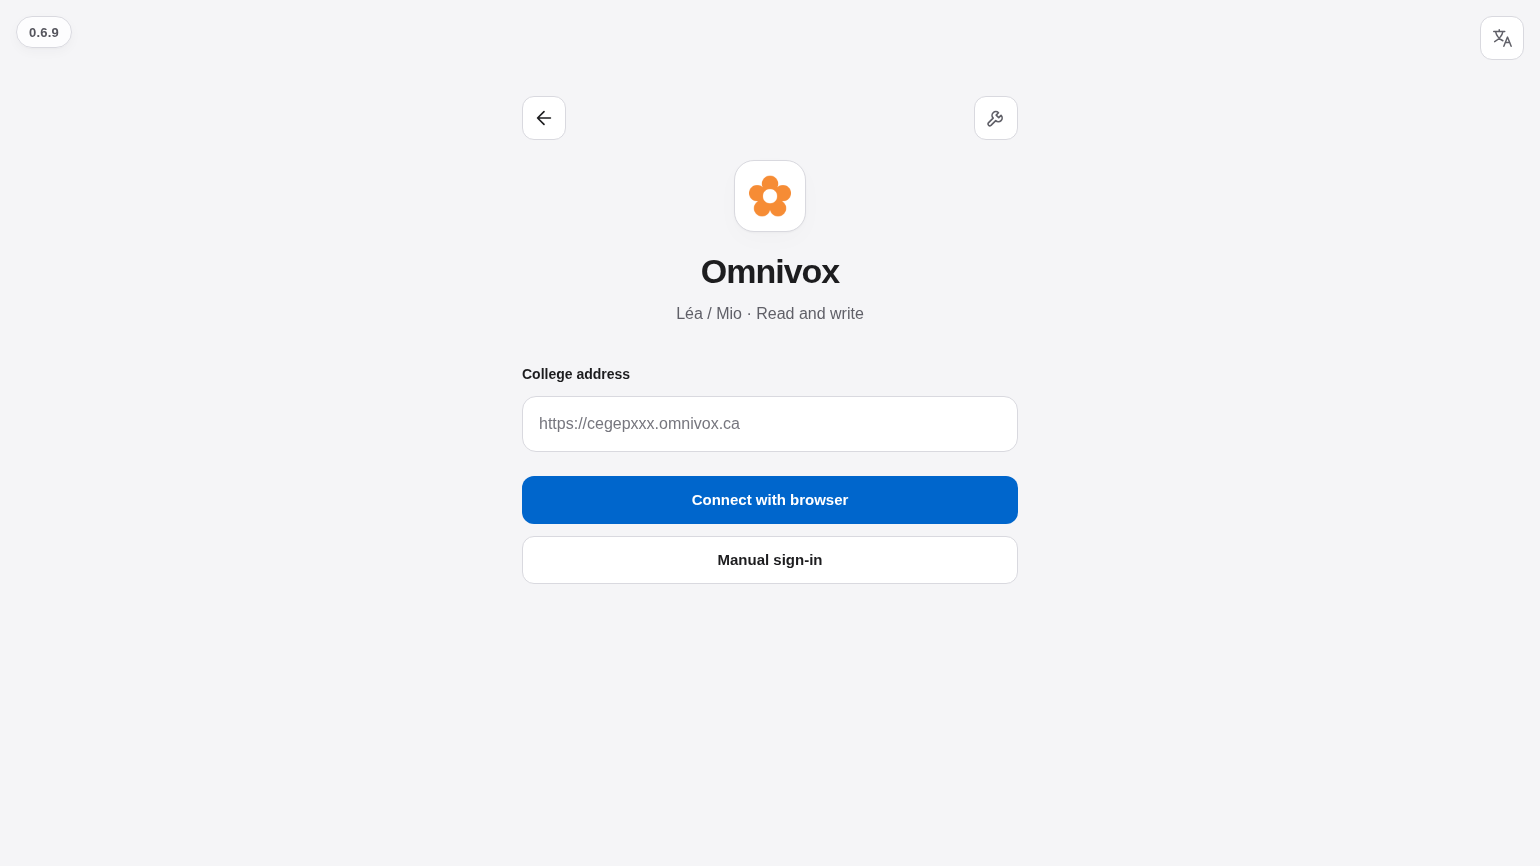
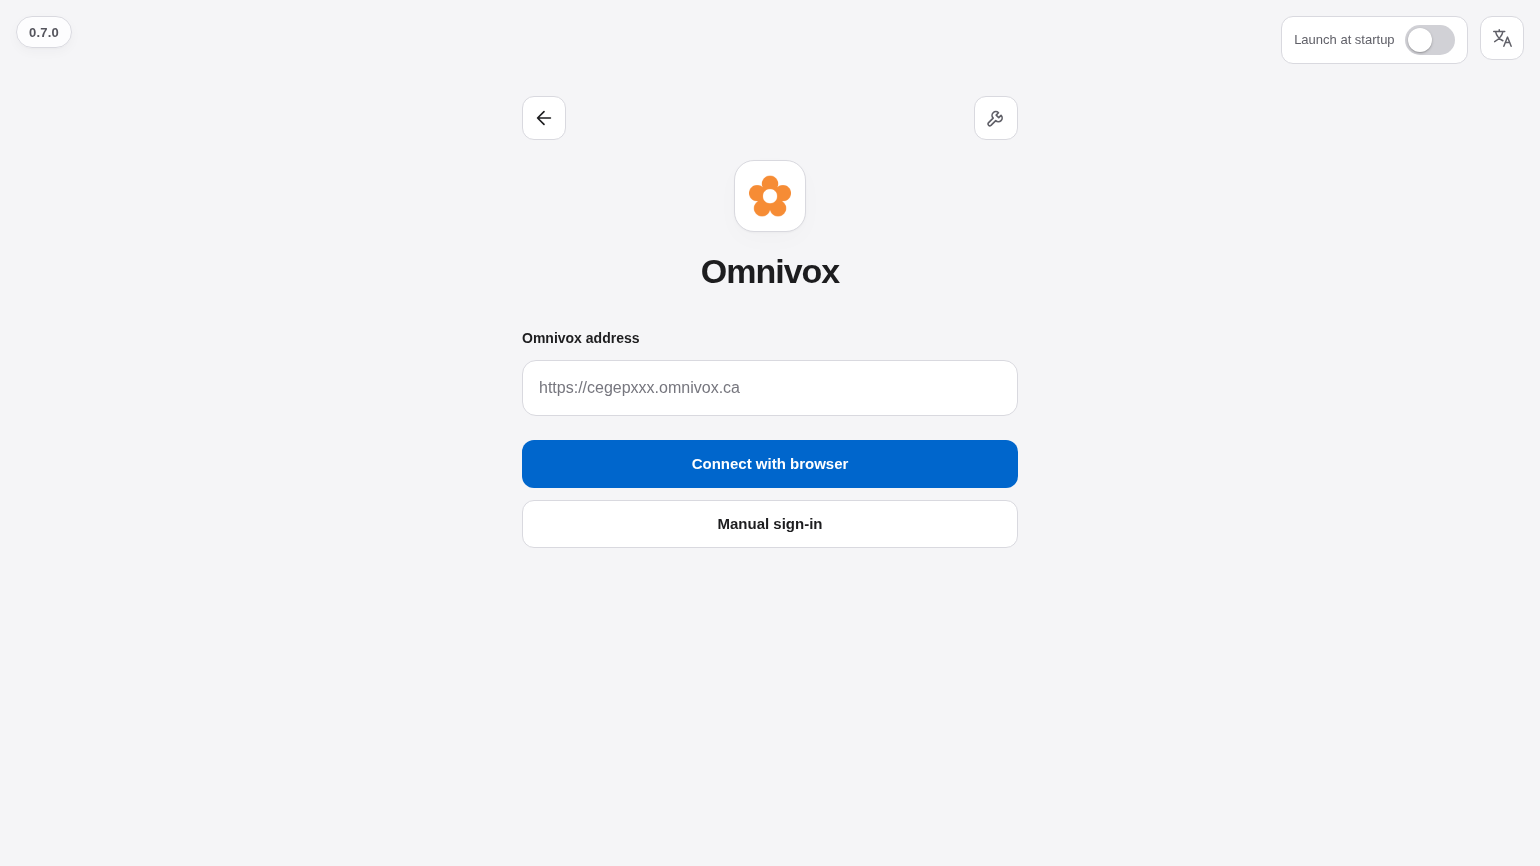
docs: refresh README screenshots and setup guide

Changed region(s): [[0.3117, 0.3741, 0.6857, 0.6547], [0.8416, 0.0312, 0.9662, 0.0624], [0.4364, 0.343, 0.561, 0.3741]]

diff --git a/tools/test_readme.py b/tools/test_readme.py
@@ -15,7 +15,7 @@ class ReadmeTests(unittest.TestCase):
         self.assertNotIn("experimental", README.lower())
         self.assertIn("tools/GUIDE.md", README)
         self.assertNotRegex(README, r"https?://(www\.)?(x|twitter)\.com")
-        for image in ("home.png", "moodle.png", "link.png", "omnivox.png"):
+        for image in ("home.png", "moodle.png", "profile.png", "link.png", "assistant.png", "omnivox.png"):
             path = ROOT / "tools" / "screens" / image
             self.assertTrue(path.is_file(), image)
             self.assertGreater(path.stat().st_size, 1000)
@@ -23,6 +23,7 @@ class ReadmeTests(unittest.TestCase):
         self.assertTrue(re.search(r"Connect with browser", README))
         self.assertNotIn("Mail transfer", README)
         self.assertNotIn("SPEC.md", README)
+        self.assertIn("0.7.0", (ROOT / "tools" / "capture-readme.mjs").read_text(encoding="utf-8"))
 
 
 if __name__ == "__main__":

diff --git a/README.md b/README.md
@@ -26,11 +26,11 @@ The installer adds student-mcp to the application menu. Windows or macOS may war
 
 Launch it from the Start menu, Applications, or your app launcher. A local page opens. Closing the tab leaves a tray icon; quit from there when you are done.
 
-<p align="center"><img src="tools/screens/home.png" width="100%" alt="student-mcp home: school search, Moodle, Omnivox, Brightspace and Canvas tiles branching to the AI link, then Claude, ChatGPT and Gemini" /></p>
+<p align="center"><img src="tools/screens/home.png" width="100%" alt="student-mcp 0.7.0 home screen with school search, four learning platforms, link settings and assistant setup" /></p>
 
 ## 2. Connect your school
 
-Click **Moodle**, **Omnivox**, **Brightspace** or **Canvas** — or type your cégep or university in the search field, which opens the right service with the address already filled in. Then **Connect with browser**. Sign in on the school site, including MFA if asked. Only a token or a private browser profile is saved — not your password. Canvas uses that session cookie; it does not ask for a personal access token.
+Click **Moodle**, **Omnivox**, **Brightspace** or **Canvas** — or type your school in the search field, which opens the right service with the address already filled in. Then **Connect with browser**. Sign in on the school site, including MFA if asked. Only a token or a private browser profile is saved — not your password. Canvas uses that session cookie; it does not ask for a personal access token.
 
 If Chrome, Edge or Brave is already installed, that browser is used. A download is offered only if none is found, and only after you agree.
 
@@ -38,21 +38,25 @@ If Chrome, Edge or Brave is already installed, that browser is used. A download 
 
 When the page says you are connected, go back to the home screen.
 
-Use the pencil on a connected account to name its profile, such as **Léa** or **Alex**. Your assistant can then find the right platform and account when you ask “What are Léa's deadlines?” If names are ambiguous, it should ask you to clarify.
+Use the pencil on a connected account to give it a name, such as **Léa** or **Alex**. Your assistant can use that label to select the right platform and account when you ask “What are Léa’s deadlines?” Names are labels you choose, not verified identities; if one is ambiguous, the assistant should ask you to clarify.
+
+<p align="center"><img src="tools/screens/profile.png" width="100%" alt="Connected Moodle account named Léa, with its school address and account controls" /></p>
 
 <p align="center"><img src="tools/screens/omnivox.png" width="100%" alt="Omnivox sign-in with Connect with browser" /></p>
 
 ## 3. Copy your AI link
 
-Your link appears under your school. Press the copy button. Keep this computer awake and online. Do not put the link in a screenshot or a chat. Open the card to choose between the local and public link.
+Your link appears under your school. Press the copy button. Keep this computer awake and online. Do not share your real link: anyone who has it can access enabled tools. Open the card to choose between **On this computer** and **From the web**.
 
-<p align="center"><img src="tools/screens/link.png" width="100%" alt="Local and public link cards with copy buttons. Example URLs only, not a real token." /></p>
+<p align="center"><img src="tools/screens/link.png" width="100%" alt="Local and public link cards with copy buttons; URLs are fictitious examples" /></p>
 
 ## 4. Add the link to your assistant
 
 Paste the **complete** `https://…/mcp/…` link into the assistant’s MCP connector settings, not into a chat message.
 
-Click **Connect an assistant** under **Your link**, then choose **Web** or **On this computer**. **Web** has three-step guides for **Grok**, **Claude**, **ChatGPT** and **Gemini**, with illustrative interface renders and a copy button where you need the public link. **On this computer** detects supported local apps: choose an app, then **Confirm setup**. No terminal or public link is needed. Automatic setup supports Claude Desktop, Claude Code, Codex / ChatGPT Desktop, Gemini CLI, OpenCode, Cursor, Grok Build, Oh My Pi, GitHub Copilot / VS Code, Windsurf, Pi, Qwen Code, Kiro, Amp, Crush and Devin CLI. Other settings and MCP servers are preserved and an existing configuration is backed up first. Detection checks known locations, not every app on the disk; **Scan again** refreshes the list.
+Click **Set up an assistant** under **Your link**, then choose **Web** or **On this computer**. **Web** has three-step guides for **Grok**, **Claude**, **ChatGPT** and **Gemini**, with illustrative interface renders and a copy button where you need the public link. **On this computer** shows supported local apps: select a detected app, review the change, then confirm. No terminal or public link is needed. Automatic setup supports Claude Desktop, Claude Code, Codex / ChatGPT Desktop, Gemini CLI, OpenCode, Cursor, Grok Build, Oh My Pi, GitHub Copilot / VS Code, Windsurf, Pi, Qwen Code, Kiro, Amp, Crush and Devin CLI. Other settings and MCP servers are preserved, and an existing configuration is backed up first. Detection checks known locations, not every app on the disk; **Scan again** refreshes the list.
+
+<p align="center"><img src="tools/screens/assistant.png" width="100%" alt="On this computer assistant setup with detected local apps, app logos, and a separate not-detected section" /></p>
 
 ### Grok
 
